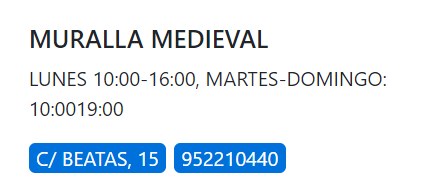
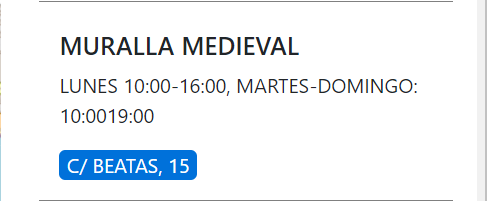
correccion

diff --git a/app.js b/app.js
@@ -16,14 +16,10 @@ fetch('https://raw.githubusercontent.com/FRomero999/ExamenDIW2022/main/rutas_arq
             let nombre = clone.getElementById('nombres')
             let horario = clone.getElementById('horarios')
             let direccion = clone.getElementById('direccion')
-            let telefono = clone.getElementById('numerotelefono')
             nombre.textContent = data[i].properties.nombre;
             horario.textContent = data[i].properties.horario;
             direccion.textContent = data[i].properties.direccion;
-            telefono.textContent = data[i].properties.telefono;
-            if (telefono.textContent != "") {
-                telefono.classList.add('tarjeta')
-            }
+           
             tbody.appendChild(clone);
 
             var marcador = L.marker([data[i].properties.x, data[i].properties.y]).addTo(mapa);

diff --git a/index.html b/index.html
@@ -16,6 +16,10 @@
 <body>
     <div class="contenedor">
         <div class="row vh-100">
+           
+            <div class="col">
+                <div id="mapa"></div>
+            </div>
             <div class="col-3 listado" id="elementos">
                 <template id="lista">
                     <div class="p-3 elementos">
@@ -23,14 +27,11 @@
                         <div id="horarios" class="mb-3"></div>
                         <div class="direcciontelefono">
                             <div id="direccion" class="tarjetas"></div>
-                            <div id="numerotelefono" class="tarjetas"></div>
                         </div>
                     </div>
                 </template>
             </div>
-            <div class="col">
-                <div id="mapa"></div>
-            </div>
+
         </div>
     </div>
 
